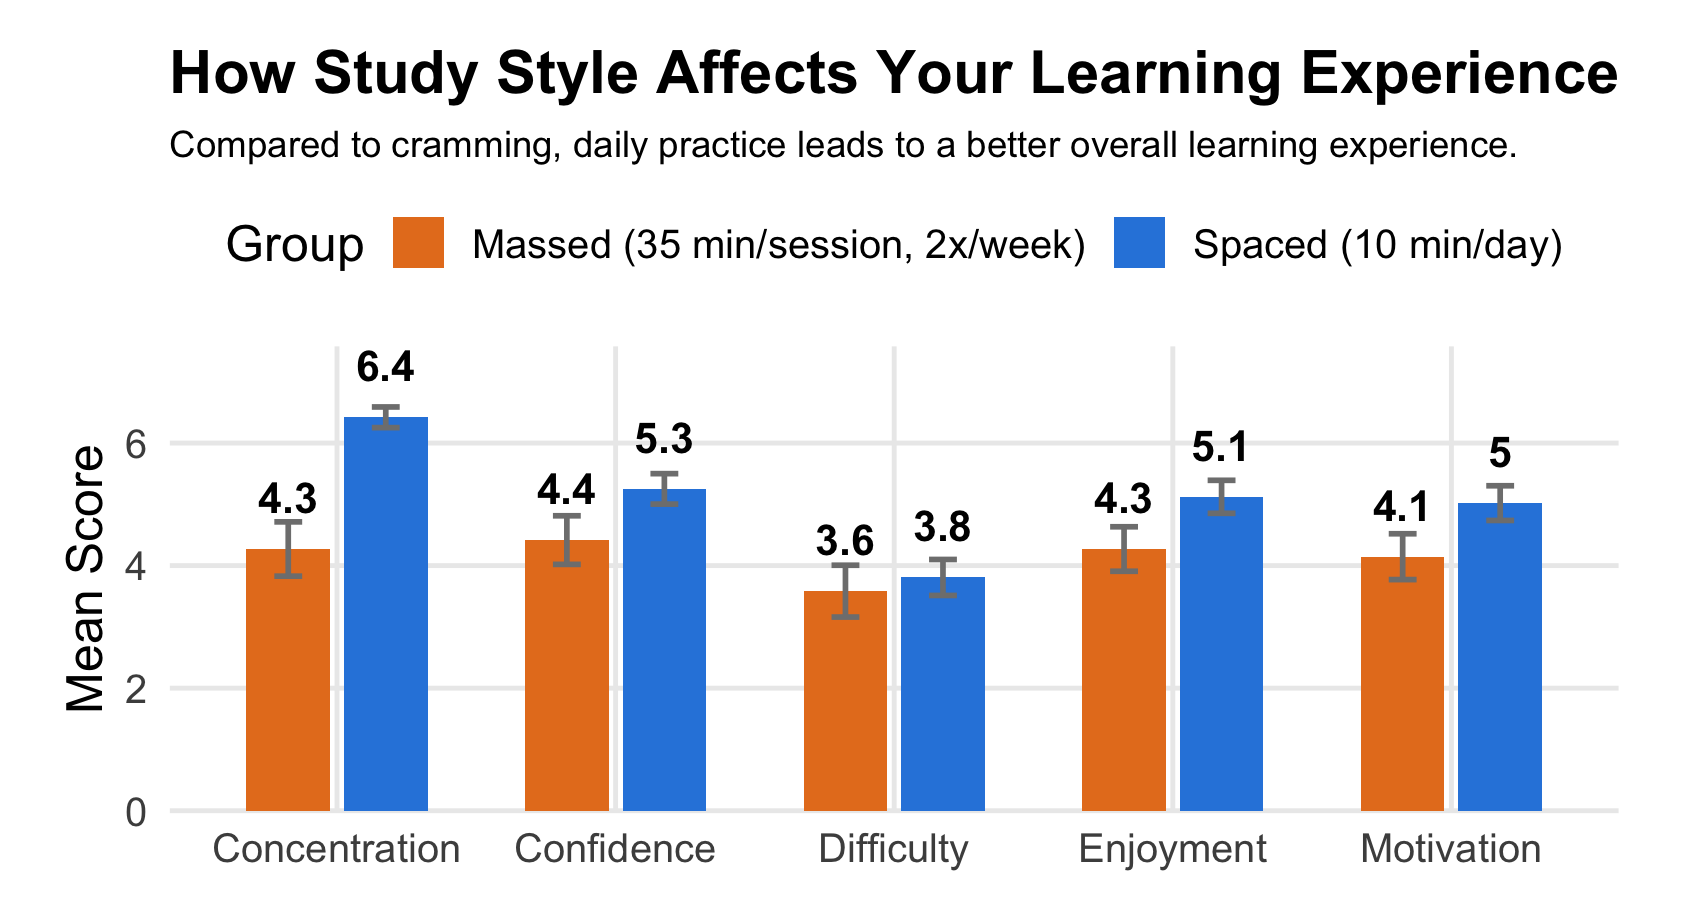
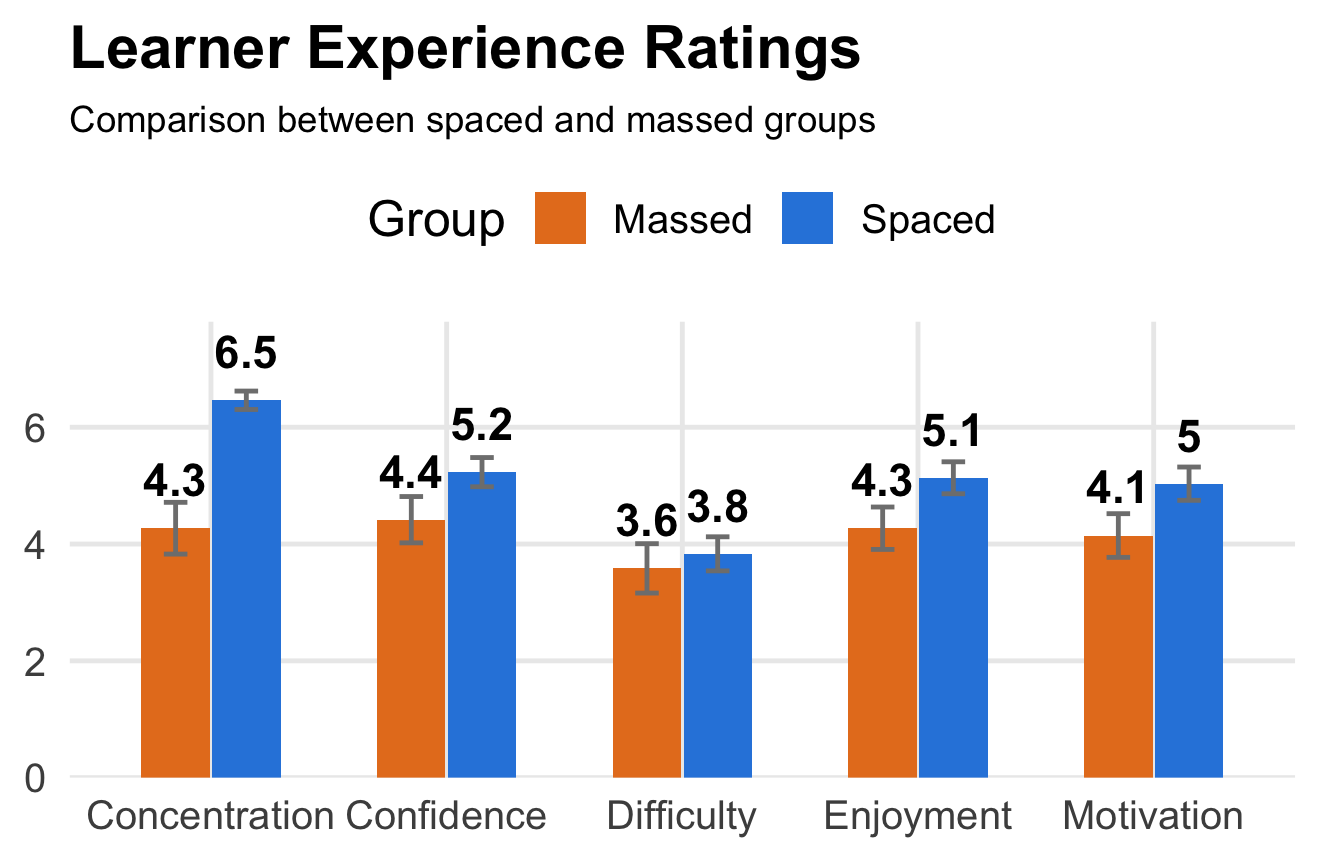
Built site for gh-pages

diff --git a/results.html b/results.html
@@ -385,7 +385,7 @@ The advantage was especially strong in vocabulary
 <li>Results are descriptive, with individual differences</li>
 </ul>
 <div class="highlight">
-<p><strong><img src="images/fig8_Duo.png" class="img-fluid" width="40"> Key Take Away:</strong></p>
+<p><strong><img src="images/fig8_Duo.png" class="img-fluid" width="40"> Key Takeaways:</strong></p>
 <ul>
 <li>
 Study frequency matters
